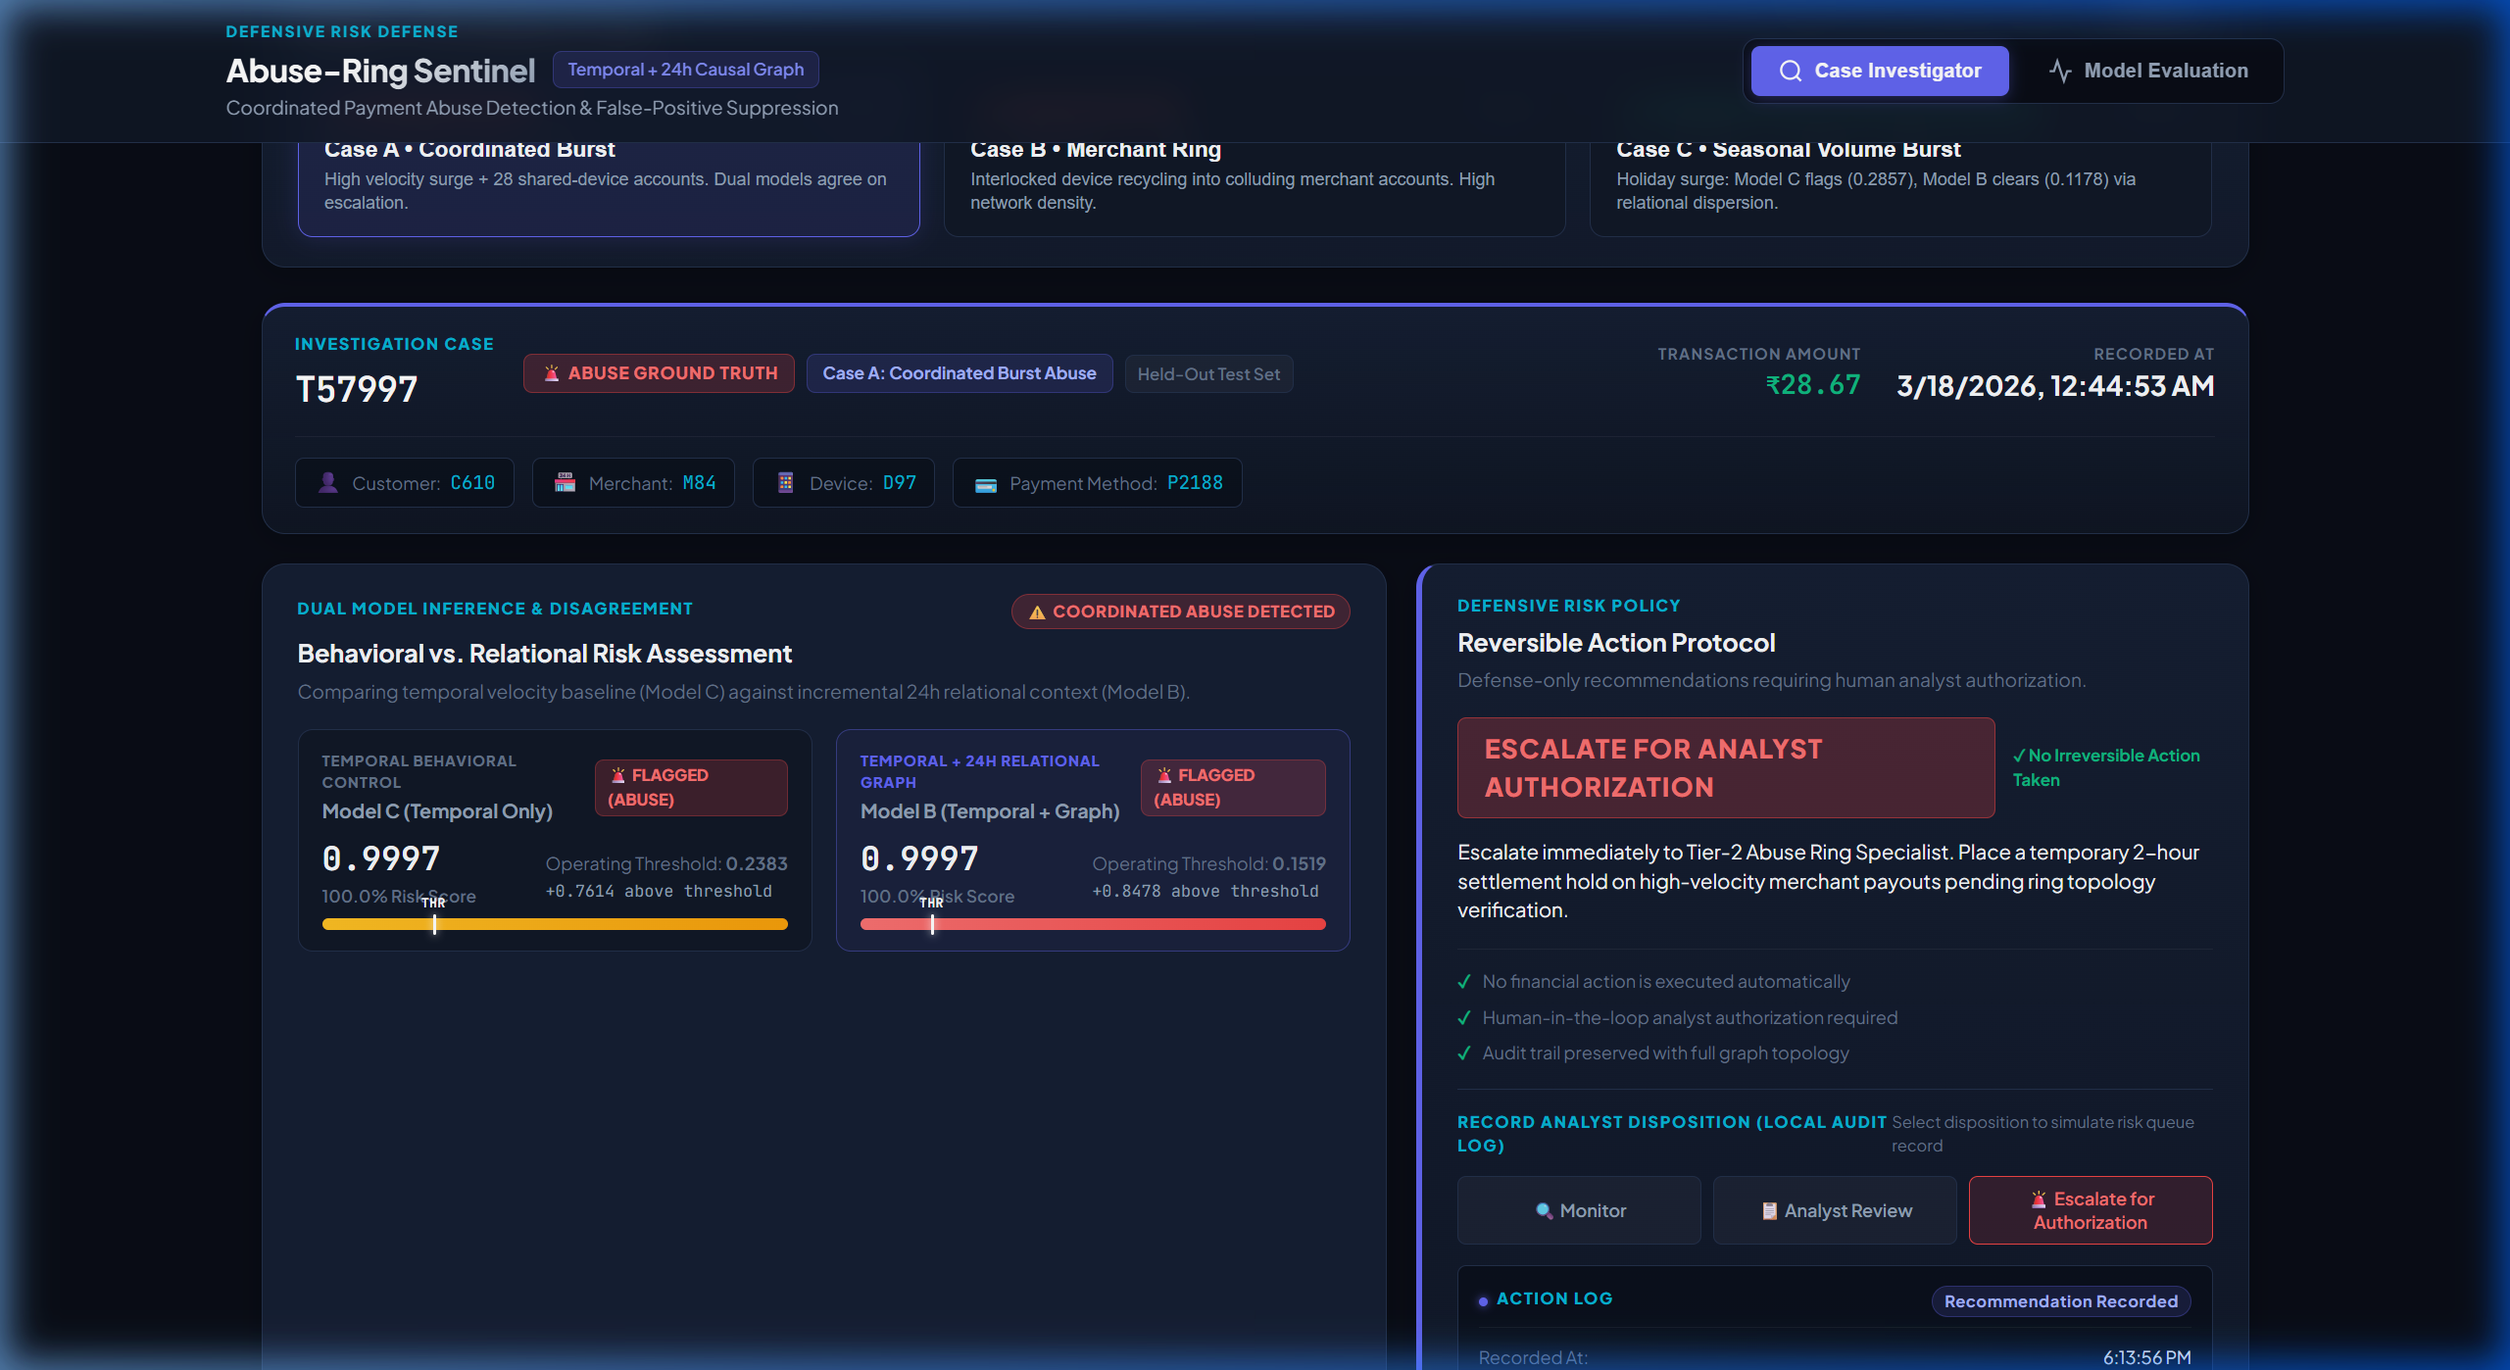
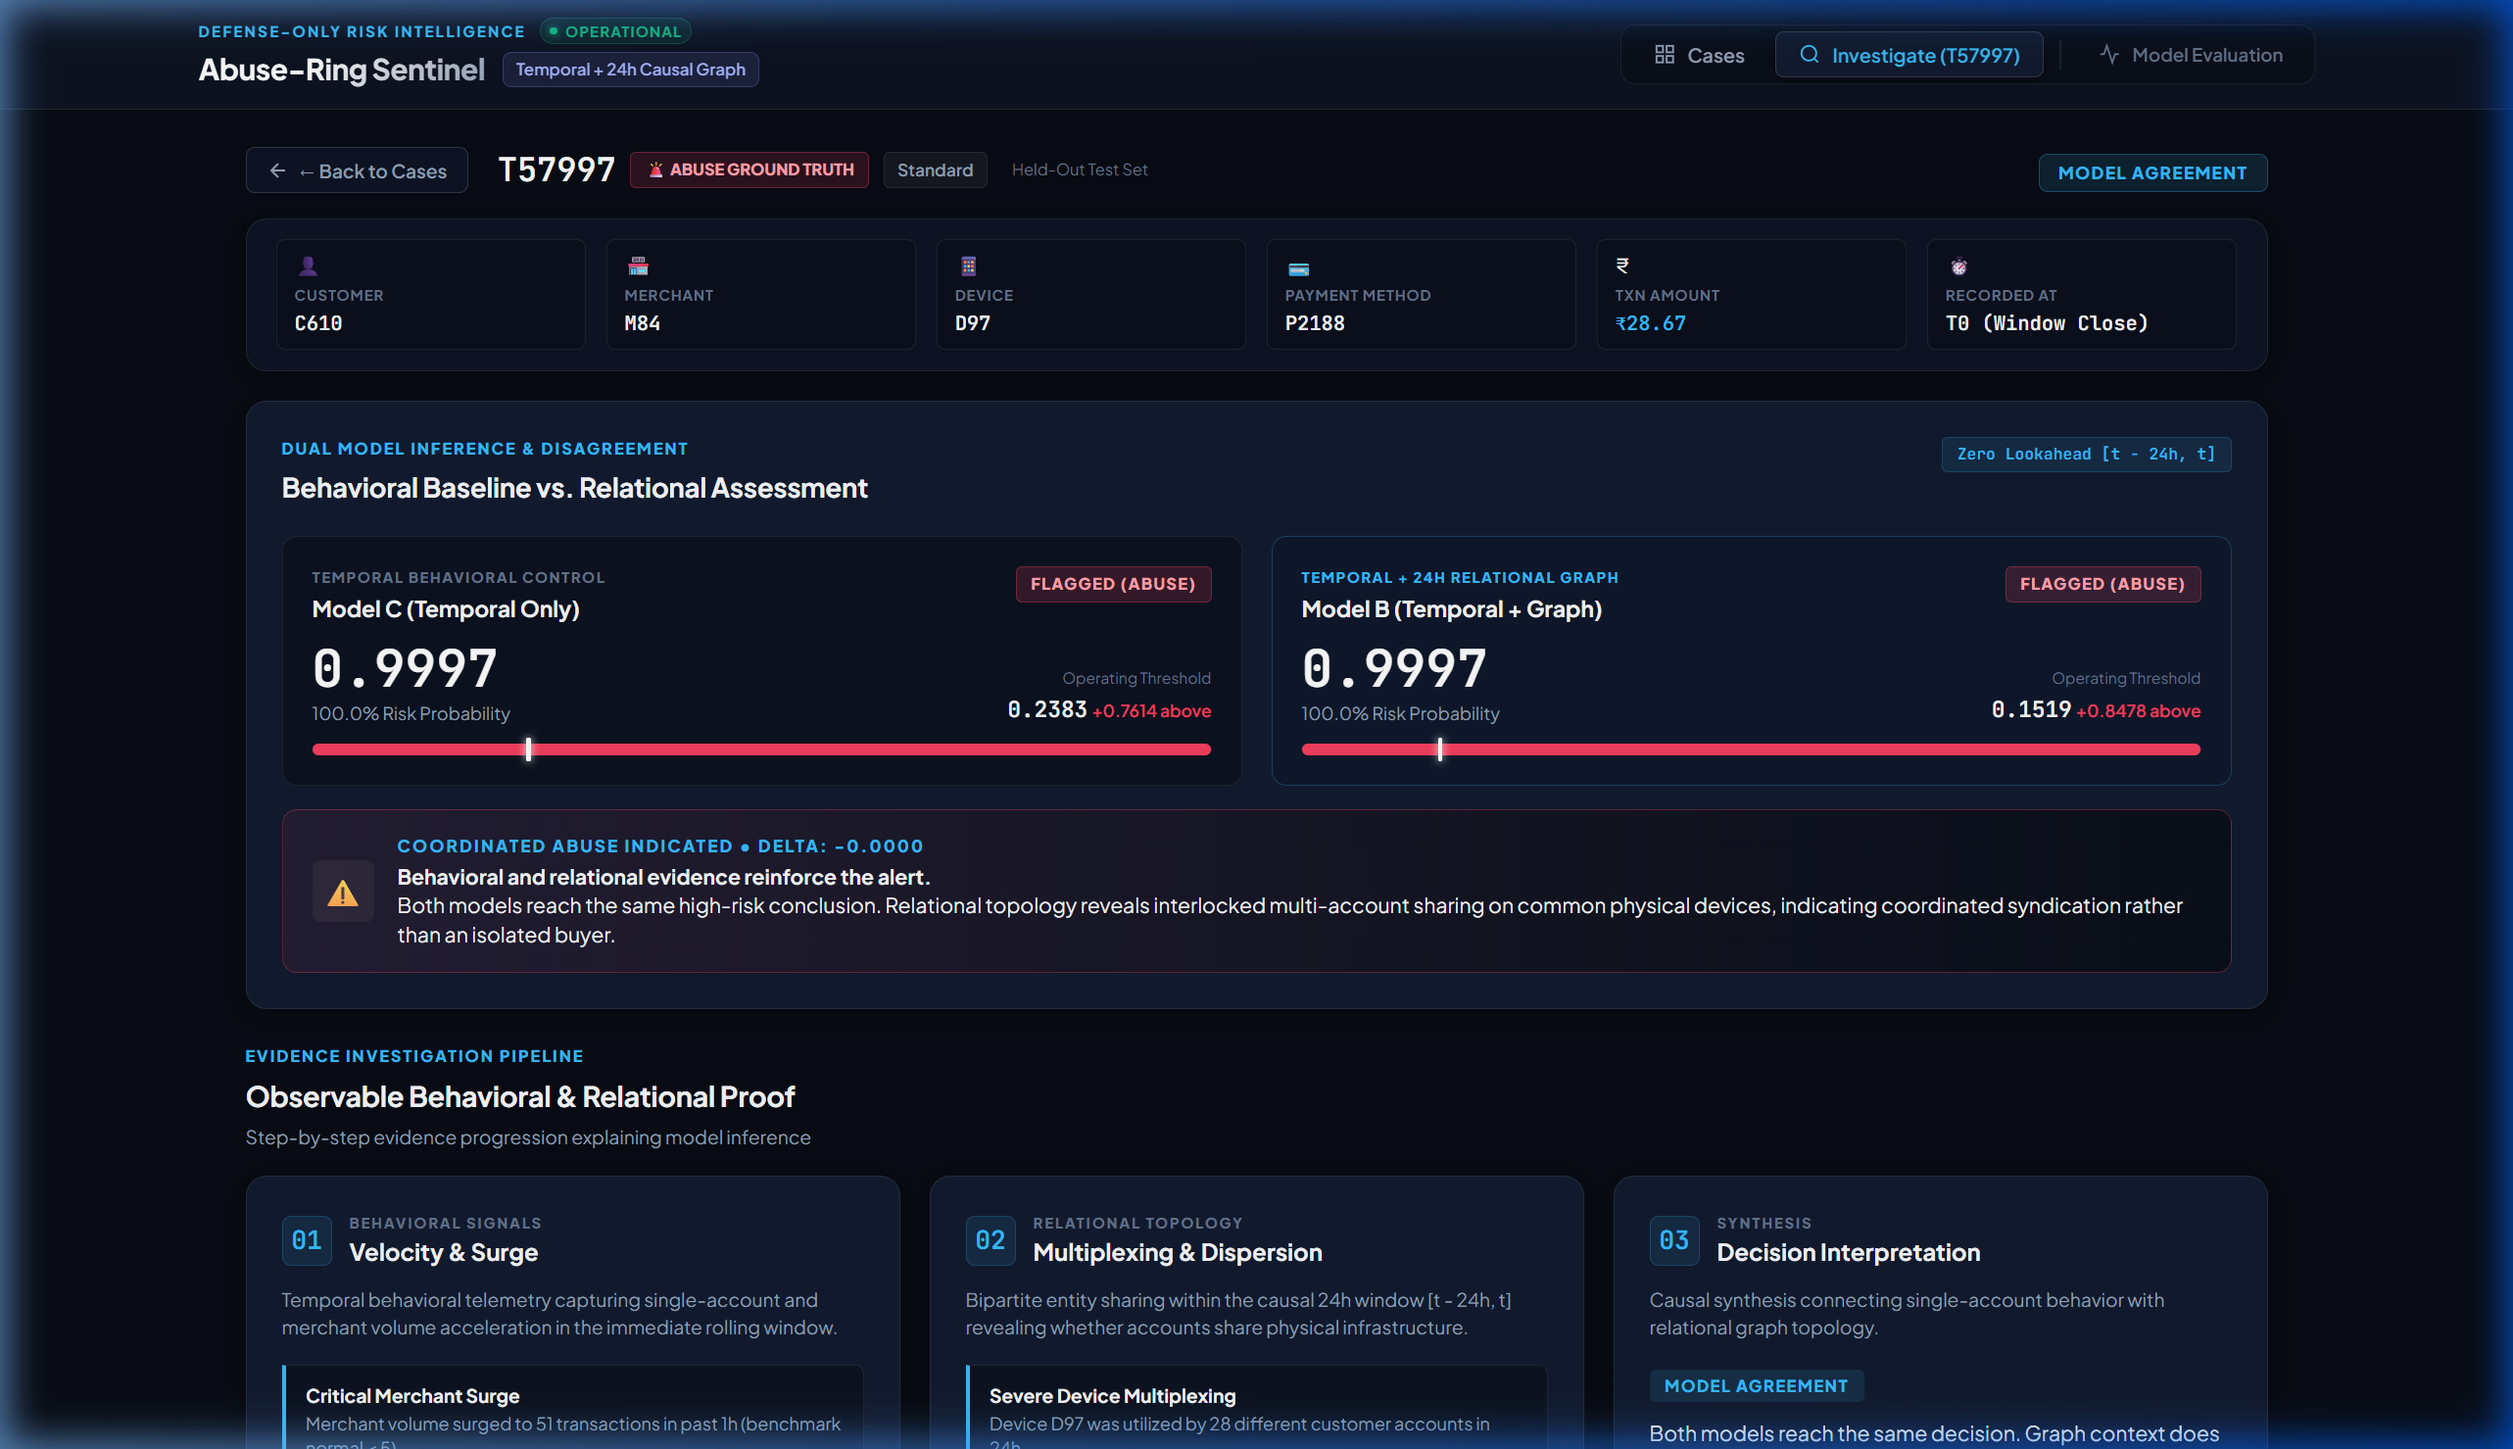
docs: replace legacy screenshots with final UI/UX redesign in assets and README
- Replace old UI screenshots in assets/screenshots with final production UI captures
- Add cases_overview.png showing curated scenarios and 51.9% key finding banner
- Add 3d_causal_ego_network.png showing WebGL 3D network, inspector, and controls
- Update case_a_investigation.png and case_c_disagreement.png with final workspace layout
- Update model_evaluation.png with rendered PR curve canvas and confusion matrices
- Update README.md Investigation Showcase to display all 5 high-resolution screenshots

Changed region(s): [[0.0625, 0.0, 0.9059, 1.0], [0.6248, 0.0308, 0.9059, 0.1538], [0.2499, 0.9843, 0.2811, 1.0]]

diff --git a/README.md b/README.md
@@ -24,24 +24,38 @@ Abuse-Ring Sentinel is structured as an **AI-assisted payment risk investigation
 
 ### Investigation Showcase
 
-#### 1. Model Disagreement & False-Positive Suppression (Case C)
+#### 1. Cases Overview
+![Cases Overview](assets/screenshots/cases_overview.png)
+
+> **Cases Overview**: Curated investigation scenarios categorized by risk profile (`coordinated_burst`, `merchant_ring`, `seasonal_burst`), presenting live agreement/disagreement indicators, velocity metrics, and the prominent **51.9% Seasonal-Burst False-Positive Reduction** finding without requiring deep navigation.
+
+---
+
+#### 2. Model Disagreement & False-Positive Suppression (Case C)
 ![Model Disagreement & Investigation Workspace](assets/screenshots/case_c_disagreement.png)
 
 > **Model Disagreement Analysis (Case C / T60698)**: The temporal baseline flags high holiday surge volume (Model C: `0.2857` vs. threshold `0.2383`), while the 24-hour causal relational graph verifies an isolated, organic footprint (0 shared payment methods, 1 shared device), reducing the risk assessment (Model B: `0.1178` vs. threshold `0.1519`, $\Delta = -0.1679$). The system recommends **Monitor** with zero financial disruption.
 
 ---
 
-#### 2. Coordinated Abuse Ring Consensus (Case A)
+#### 3. Interactive 3D Causal Ego-Network
+![Interactive 3D Causal Ego-Network](assets/screenshots/3d_causal_ego_network.png)
+
+> **Interactive 3D Causal Ego-Network & Entity Inspector**: Real-time WebGL projection of the 24-hour pre-event bipartite network $[t - 24\text{h}, t)$ with zero lookahead. Analysts can rotate, zoom, center on the focal customer (`Focus Focal`), and inspect entity connectivity degrees and infrastructure multiplexing.
+
+---
+
+#### 4. Coordinated Abuse Ring Consensus (Case A)
 ![Coordinated Abuse Investigation](assets/screenshots/case_a_investigation.png)
 
 > **Model Agreement Analysis (Case A / T57997)**: Both models flag high risk (`1.0000` probability) when single-account velocity ($52\text{ txns/hr}$) is reinforced by multiplexed physical infrastructure ($28\text{ accounts}$ recycled on device `D97`). The system routes the case to **Escalate for Analyst Authorization** for human settlement hold approval.
 
 ---
 
-#### 3. Model Evaluation & Multi-Seed Benchmark
+#### 5. Model Evaluation & Multi-Seed Benchmark
 ![Model Evaluation Dashboard](assets/screenshots/model_evaluation.png)
 
-> **Controlled Model Evaluation**: Direct side-by-side comparison of Model C (Temporal Control) vs. Model B (Temporal + Graph), displaying held-out confusion matrices, multi-seed sensitivity analysis across Seeds 42, 100, and 999, and the Precision-Recall curve canvas.
+> **Controlled Model Evaluation**: Direct side-by-side comparison of Model C (Temporal Control) vs. Model B (Temporal + Graph), displaying rendered Precision-Recall curves, held-out confusion matrices, multi-seed sensitivity analysis across Seeds 42, 100, and 999, and XGBoost feature importance attribution.
 
 ---
 
@@ -440,7 +454,9 @@ abuse-ring-sentinel/
 │   ├── evaluation/                # Frozen metrics, static payloads & audit reports
 │   └── models/                    # Trained XGBoost models & validation thresholds
 ├── assets/
-│   └── screenshots/               # Dashboard screenshots for repository showcase
+│   └── screenshots/               # High-resolution screenshots of final UI/UX
+│       ├── 3d_causal_ego_network.png
+│       ├── cases_overview.png
 │       ├── case_a_investigation.png
 │       ├── case_c_disagreement.png
 │       └── model_evaluation.png
